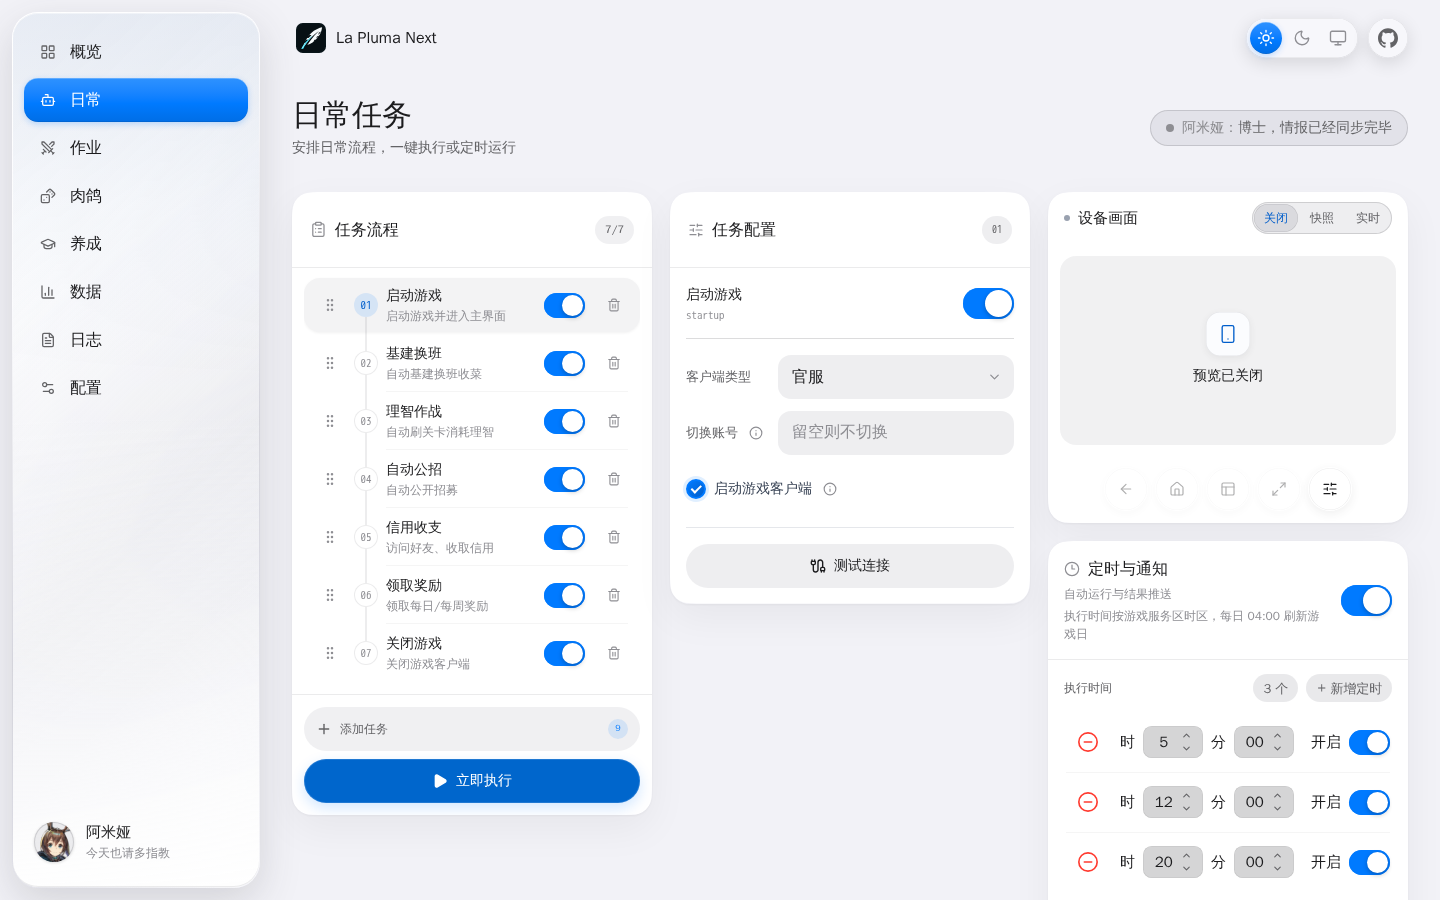
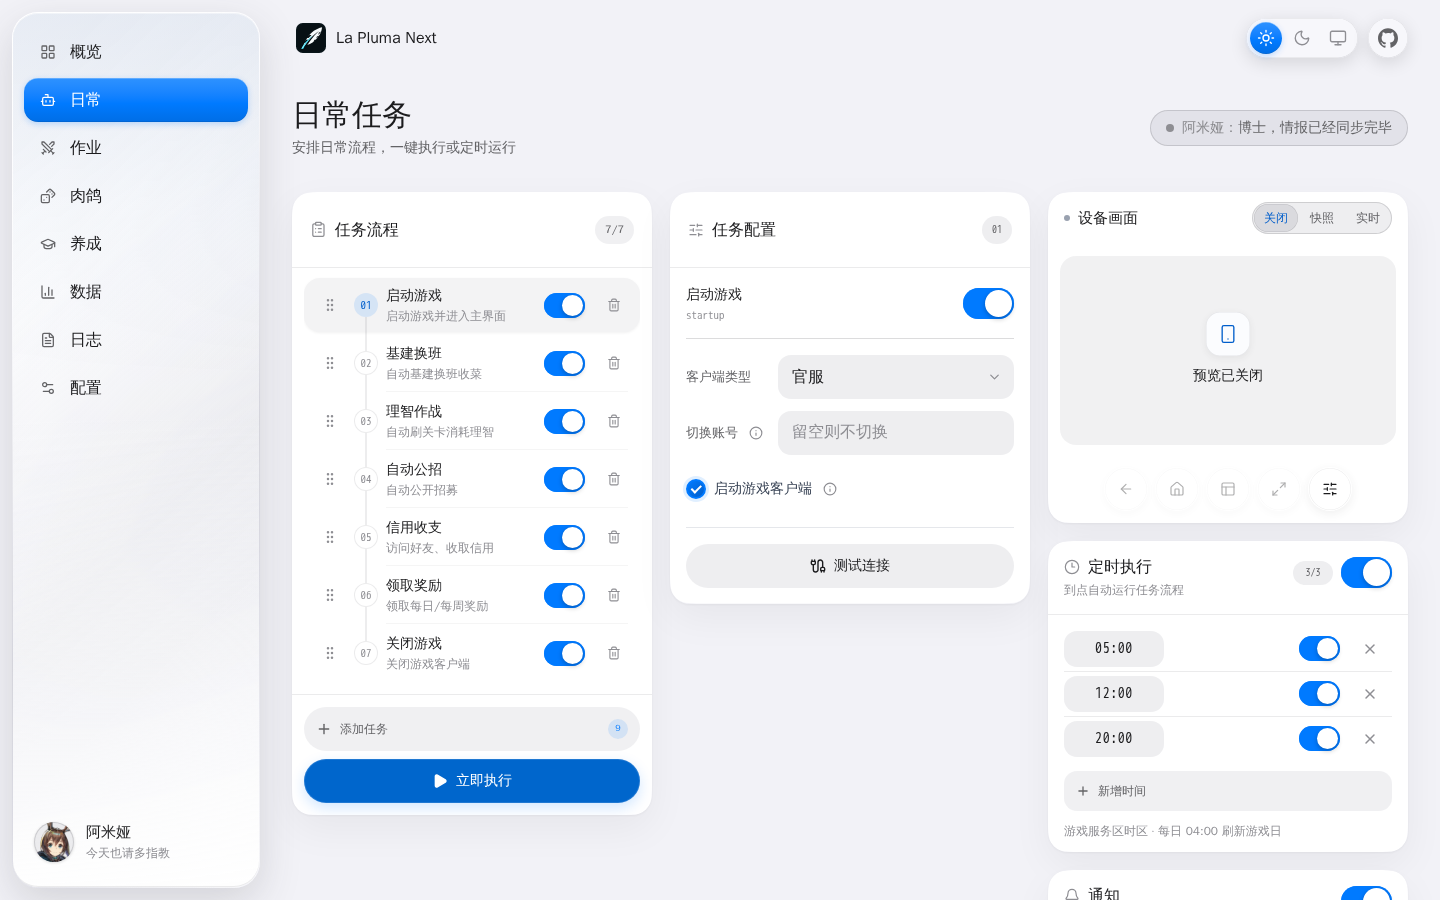
docs: refresh README automation screenshot
- regenerate the desktop preview for the split schedule and notification cards
- sync the screenshot readiness selector with the masked HH:MM time field

Changed region(s): [[0.7188, 0.8711, 0.9688, 1.0], [0.75, 0.6222, 0.9688, 0.84], [0.7188, 0.6222, 0.8438, 0.7778]]

diff --git a/client/tests/screenshots/readme.pw.ts b/client/tests/screenshots/readme.pw.ts
@@ -46,7 +46,7 @@ test('README automation screenshot', async ({ page }, testInfo) => {
   await page.getByText('任务流程', { exact: true }).first().waitFor({ state: 'visible' })
   await page.getByText('7/7', { exact: true }).first().waitFor({ state: 'visible' })
   await page.getByText('关闭游戏', { exact: true }).first().waitFor({ state: 'visible' })
-  await page.getByRole('group', { name: '第 3 个执行时间' }).waitFor({ state: 'visible' })
+  await page.getByLabel('第 3 个执行时间').waitFor({ state: 'visible' })
   await page.getByText('博士，情报已经同步完毕', { exact: false }).first().waitFor({ state: 'visible' })
   await expect(page.getByText('最近执行', { exact: true })).toHaveCount(0)
 
